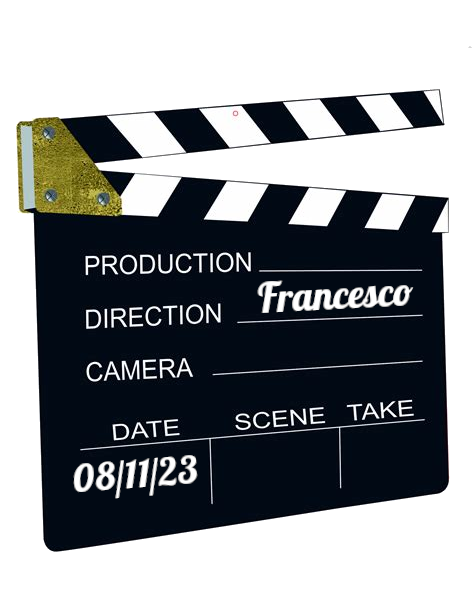
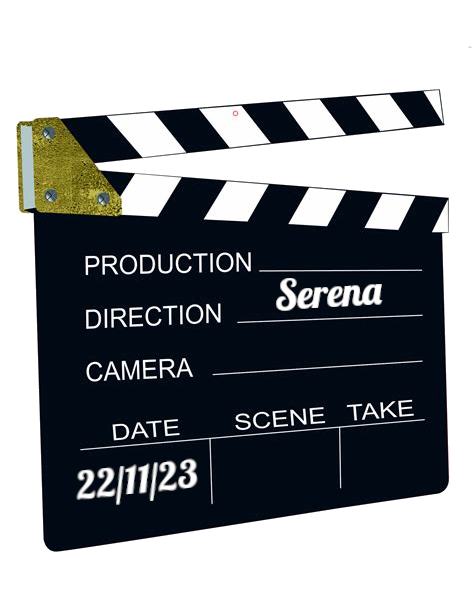
The vanishing soldier

Changed region(s): [[0.5316, 0.4332, 0.8861, 0.5261], [0.1477, 0.7427, 0.4135, 0.8355]]

diff --git a/index.html b/index.html
@@ -40,6 +40,15 @@
 
 <br /><br /><hr width="90%"><hr width="90%"><br /><br />
 
+<h1>Mercoled&igrave; 22 novembre 2023</h1>
+<h2>Alle 20:30 in Via Nizza, 72</h2>
+
+<img src="img/ciak.png" class="locandina"/>
+
+<h2>Selezionatrice: <i>Serena</i></h2>
+
+<br /><br /><hr width="90%"><hr width="90%"><br /><br />
+
 <h1>Marted&igrave; 14 novembre 2023</h1>
 <p class="mtitle">
 <a href="https://www.imdb.com/title/tt27817584/" target="_blank">The Vanishing Soldier</a>
@@ -47,7 +56,9 @@
 <img src="https://image.tmdb.org/t/p/w500/vmtkYN1S2NpjFhLZpDteVQ3dxdH.jpg" class="locandina"/>
 <h2><i>In trasferta al cinema Savoy</i></h2>
 
-<br /><br /><hr width="90%"><hr width="90%"><br /><br />
+
+<br /><br /><hr width="90%"><br /><br />
+
 
 <h1>Mercoled&igrave; 8 novembre 2023</h1>
 <p class="mtitle">

diff --git a/movieslist.html b/movieslist.html
@@ -29,6 +29,17 @@ Rassegnamoci, Cineforum a Programma Variabile - Elenco Film
   </thead>
   <tbody>
     <tr>
+      <td>14-Nov-2023</td>
+      <td>The Vanishing Soldier</td>
+      <td>Jolly</td>
+      <td>-</td>
+      <td>2023</td>
+      <td>Dani Rosenberg</td>
+      <td>105</td>
+      <td>IL</td>
+      <td><a href="https://www.imdb.com/title/tt27817584" target="_blank">https://www.imdb.com/title/tt27817584</a></td>
+    </tr>
+    <tr>
       <td>8-Nov-2023</td>
       <td>Experimenter</td>
       <td>Francesco</td>
